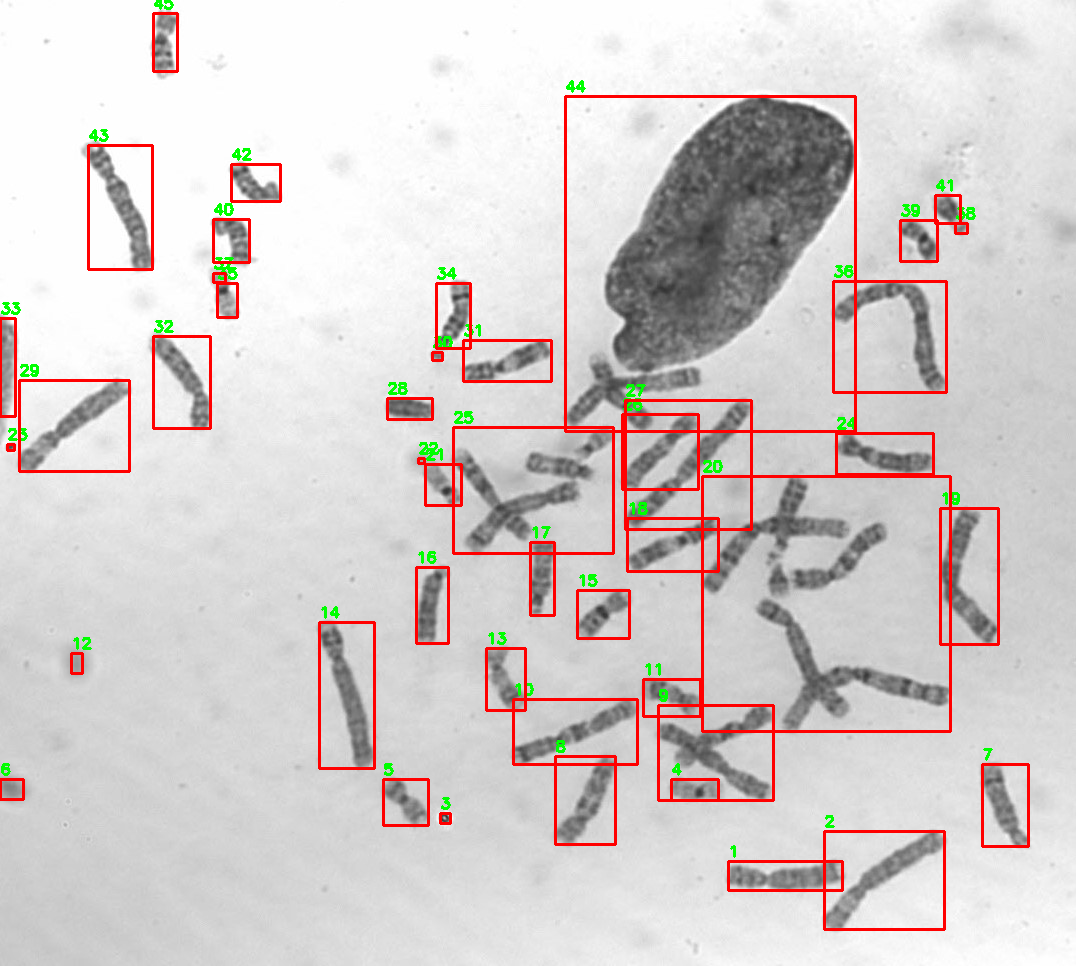
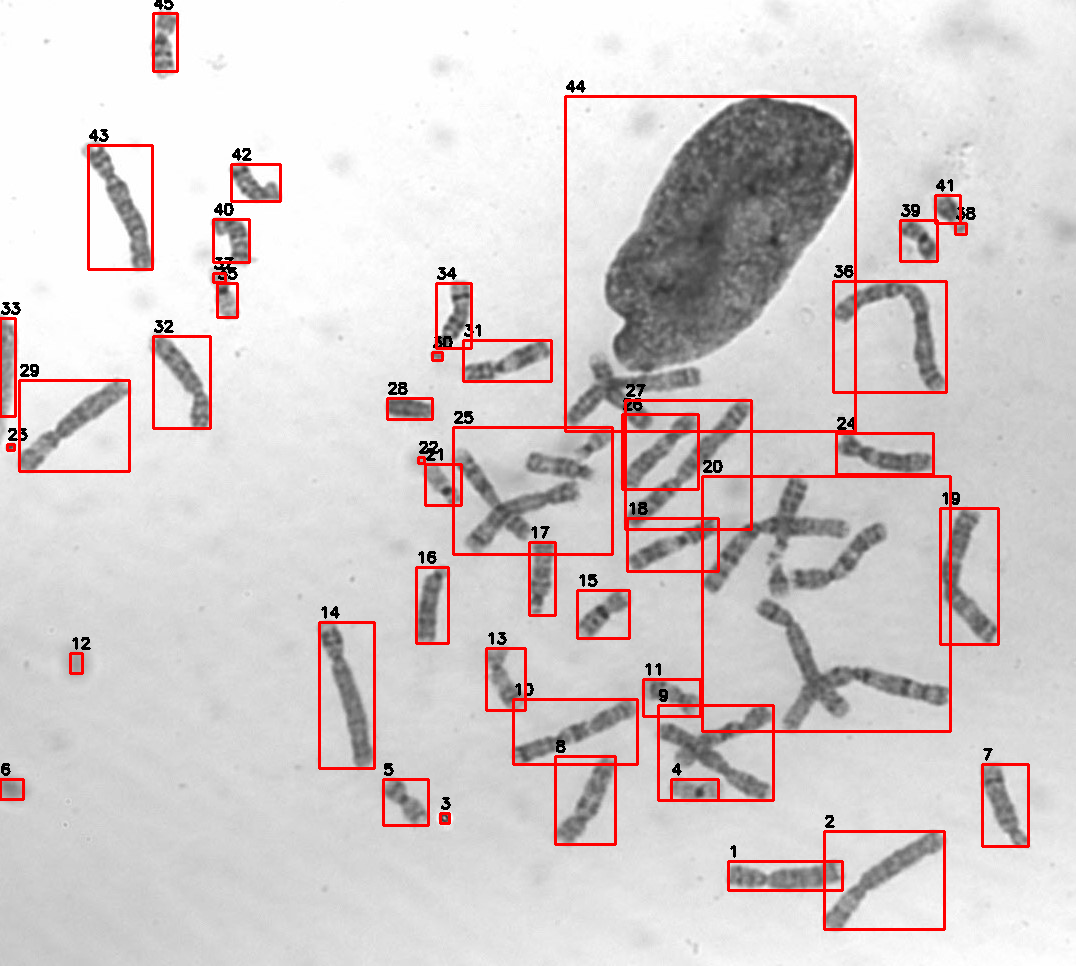
fix some errors

diff --git a/chromosome_detector.py b/chromosome_detector.py
@@ -11,78 +11,46 @@ def extract_chromosomes(image_path,output_dir,min_area,max_area,padding):
     print(f"Directory ready: {os.path.abspath(output_dir)}/")
     
     # Read image
-    # image load function of openCV 
     img = cv2.imread(image_path)
-    # load image as numpy array.
-    # if image grayscale, store as 2D array
-    # if image is color , store as 3D array
     
     if img is None:
         raise ValueError(f"Could not read image from {image_path}")
         
     print(f"Image loaded successfully")
-    # img.shape[0] → Height(ROW)
-    #img.shape[1] → Width(COLUMNS)
     print(f"  - Image size: {img.shape[1]} x {img.shape[0]} pixels")
     print(f"  - Color channels: {img.shape[2]}")
-
 
     
     # Convert to grayscale(openCV function)
     gray = cv2.cvtColor(img, cv2.COLOR_BGR2GRAY)
-    # 0 → black
-    # 255 → white
-    # between 0 , 255 → grey
     print(f"Grayscale conversion complete")
 
     
     # Apply Gaussian blur to reduce noise
     # kernel size: 5x5
-    # Standard deviation — 0 (automatically select used SD value)
-    blurred = cv2.GaussianBlur(gray, (3, 3), 0)
+    # 0 (automatically select used SD value)
+    blurred = cv2.GaussianBlur(gray, (5, 5), 0)
     print(f"Noise reduction complete")
-
 
     
     # Apply thresholding
-    # Thresholding mean convert grayscale image to black and white(binary) image
-    # best threshold value automatically calculated(Otsu method automatically decide)
-    # Pixel > threshold → black (0)  (done by cv2.THRESH_BINARY_INV)
-    # Pixel ≤ threshold → white (255) (done by cv2.THRESH_BINARY_INV)
     _, binary = cv2.threshold(blurred, 0, 255, cv2.THRESH_BINARY_INV + cv2.THRESH_OTSU)
     print(f"Binary segmentation complete")
-
-
     
     # Morphological operations
     kernel = np.ones((3, 3), np.uint8)
-    # (Closing operation) Small holes / cracks fill (Chromosome shapes smooth)
     binary = cv2.morphologyEx(binary, cv2.MORPH_CLOSE, kernel, iterations=2)
-    # (Opening operation) Small noise / isolated pixels remove (Main chromosome shapes preserve)
     binary = cv2.morphologyEx(binary, cv2.MORPH_OPEN, kernel, iterations=1)
     print(f"Image cleanup complete")
 
-
-    
     # Find contours
-    # Contour = boundary / shape outline of object
-    # Contour is the line that traces the outer outline/shape of the white object in the image.
-    # Contour = A collection of points that trace the edges of a chromosome. 
-    # These points can be used to crop, measure, and analyze objects.
-    # cv2.RETR_EXTERNAL → External contours only (outer boundary)
-    # cv2.CHAIN_APPROX_SIMPLE → Contour approximation
     contours, _ = cv2.findContours(binary, cv2.RETR_EXTERNAL, cv2.CHAIN_APPROX_SIMPLE)
-    # Example: Found 12 contours
-    # mean → 12 chromosomes / objects were detected in the binary image
-
     print(f"Found {len(contours)} contours")
-
 
 
     # Filter contours by area
     valid_contours = []
     for cnt in contours:
-        # The cv2.contourArea() function calculates the area (pixel count) of the contour.
         area = cv2.contourArea(cnt)
         if min_area < area < max_area:
             valid_contours.append(cnt)
@@ -90,18 +58,12 @@ def extract_chromosomes(image_path,output_dir,min_area,max_area,padding):
     print(f"Filtered to {len(valid_contours)} valid chromosomes")
 
 
-
-    # Extract and save individual chromosomes
     # draw the chromosome boundaries box
     img_with_boxes = img.copy()
 
     # Store metadata (id, position, size, area, perimeter) of extracted chromosomes.
     chromosome_info = [] 
     for idx, cnt in enumerate(valid_contours):
-        
-        # Get bounding rectangle
-        # (x, y) → rectangle top-left corner
-        # (w, h) → width and height
         x, y, w, h = cv2.boundingRect(cnt)
         
         # Calculate area and perimeter
@@ -115,7 +77,6 @@ def extract_chromosomes(image_path,output_dir,min_area,max_area,padding):
         y_end = min(img.shape[0], y + h + padding)
         
         # Extract chromosome region
-        # Cut out the chromosome area from the original image.
         chromosome = img[y_start:y_end, x_start:x_end]
         
         # Save extracted chromosome
@@ -135,15 +96,11 @@ def extract_chromosomes(image_path,output_dir,min_area,max_area,padding):
         print(f"Saved: chromosome_{idx+1:03d}.png ({w}x{h} pixels, area={int(area)})")
         
         # Draw rectangle and label on visualization image
-        # cv2.rectangle → green rectangle draw (chromosome boundary)
         cv2.rectangle(img_with_boxes, (x, y), (x+w, y+h), (0, 0, 255), 2)
-        # cv2.putText → chromosome index label display
-        cv2.putText(img_with_boxes, str(idx+1), (x, y-5), 
-                   cv2.FONT_HERSHEY_SIMPLEX, 0.5, (0, 255, 0), 2)
-
+        cv2.putText(img_with_boxes, str(idx+1), (x, y-5), cv2.FONT_HERSHEY_SIMPLEX, 0.5, (0, 0, 0), 2)
+        
 
     # Save annotated image
-    # os.path.join → output folder + file name combine function
     annotated_path = os.path.join(output_dir, 'annotated_image.png')
 
     # img_with_boxes → chromosome boundaries + labels draw image
